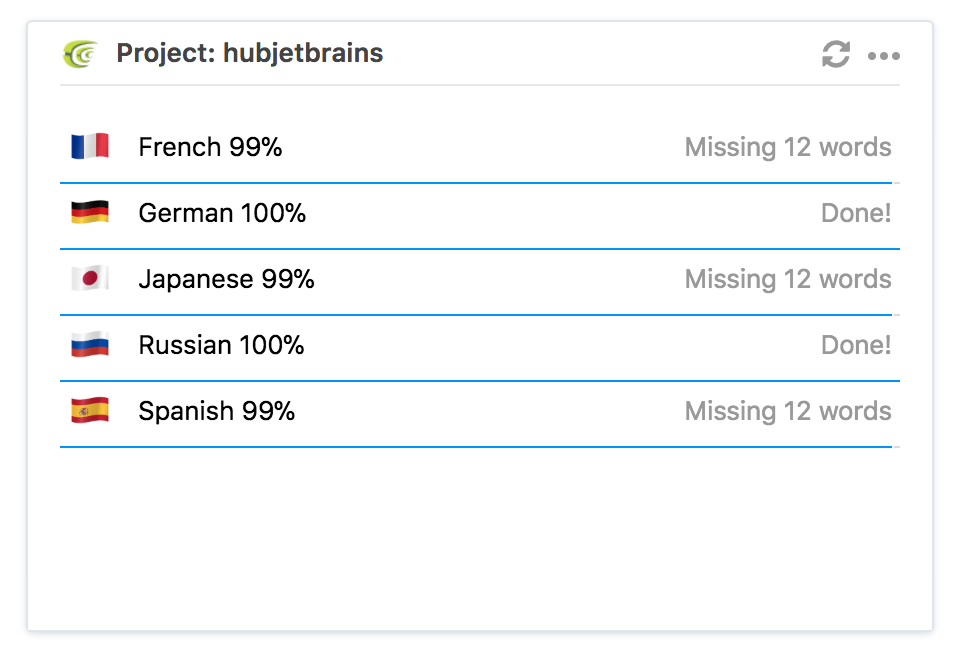
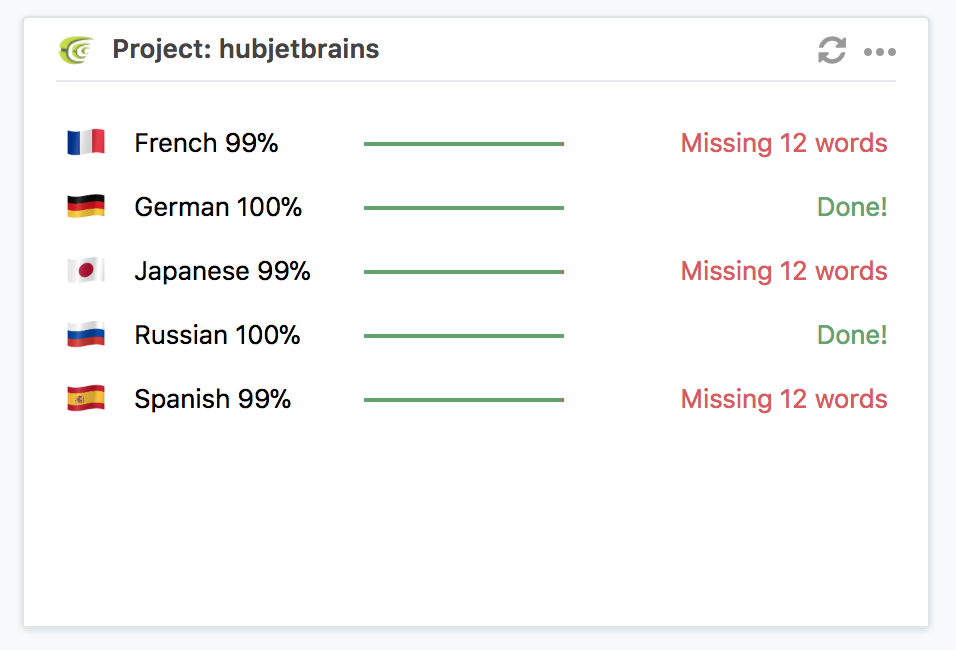
Change styles

diff --git a/src/app/app.js b/src/app/app.js
@@ -178,21 +178,29 @@ class Widget extends Component {
               } else {
                 flagFilename = 'pict/default_flag.png';
               }
+
+              const wordsRemaining = language.words - language.words_translated;
+              const statusStyle = wordsRemaining < 1
+                ? styles.absoluteStatusDone
+                : styles.absoluteStatusIncomplete;
+
               return (
                 <div className={styles.languageProgressContainer} onClick={() => window.open(`${crowdinProjectUrl}${language.code}#`, '_blank')}>
                   <div className={styles.statusTextContainer}>
                     <div className={styles.languageProgressText}>
                       <img className={'flag'}
-                        src={flagFilename} width={'16px'}/>
+                        src={flagFilename}/>
                       {`${language.name} ${language.translated_progress}%`}
                     </div>
-                    <div className={styles.crowdinLink}>
+                    <div className={styles.progressBarContainer}>
+                      <div className={styles.progressBar} style={{width: `${language.translated_progress}%`}}>
+                      </div>
+                    </div>
+                    <div className={statusStyle}>
                       {getMissingCountString(
                         language.words - language.words_translated)}
                     </div>
                   </div>
-                  <div className={styles.languageProgressBar}
-                    style={{width: `${language.translated_progress}%`}}></div>
                 </div>
               );
             })}

diff --git a/src/app/app.css b/src/app/app.css
@@ -46,8 +46,6 @@
 
 .languageProgressContainer {
     position: relative;
-
-    border-bottom: 1px dashed var(--ring-border-disabled-color);
 }
 
 .languageProgressContainer:hover {
@@ -55,21 +53,25 @@
     cursor: pointer;
 }
 
-.languageProgressBar {
-    position: absolute;
-
-    border-bottom: 1px solid var(--ring-main-color);
-}
-
-.crowdinLink {
+.absoluteStatusDone {
     float: right;
 
     margin-left: 24px;
-    color: var(--ring-secondary-color);
+    color: var(--ring-icon-success-color);
+
+}
+
+.absoluteStatusIncomplete {
+    float: right;
+
+    margin-left: 24px;
+    color: var(--ring-icon-error-color);
+
 }
 
 .languageProgressText {
     float: left;
+    min-width: 150px;
 }
 
 .statusTextContainer {
@@ -79,4 +81,18 @@
 
 .translationBlockWrapper {
     min-width: 400px;
+}
+
+.progressBarContainer {
+    float: left;
+    padding-top: 5px;
+    border-bottom: 2px solid var(--ring-icon-error-color);
+    height: 5px;
+    width: 100px;
+}
+
+.progressBar {
+    width: 100px;
+    border-bottom: 2px solid var(--ring-icon-success-color);
+    height: 100%;
 }
